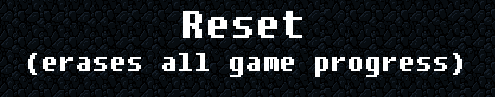
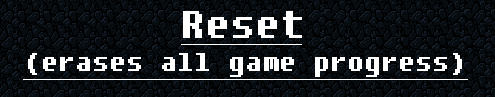
0.1.5.x (not tested)

Changed region(s): [[0.0303, 0.8041, 0.9394, 0.8351], [0.3636, 0.433, 0.6061, 0.4639]]

diff --git a/externalClasses/externalCore.py b/externalClasses/externalCore.py
@@ -18,6 +18,12 @@ class Core():
 
 		self.mainMenuHandlerObject = Menu(self.graphicHandlerObject)
 
+		self.optionsMenuHandlerObject = Menu(self.graphicHandlerObject)
+		self.optionsMenuHandlerObject.buttonPressed = [0,0]
+		self.optionsMenuHandlerObject.buttonCoords = [[154,489,495,97],[61,662,676,80]]
+		self.optionsMenuHandlerObject.buttonImages = ["images/opbut_1.png","images/opbut_2.png"]
+		self.optionsMenuHandlerObject.backgroundAdress = "images/options.png"
+
 			
 	def keyLock(self):
 		for x in self.keys:
@@ -29,6 +35,7 @@ class Core():
 					self.keysRegister.append(x)
 				
 	def startLevel(self):
+		self.graphicHandlerObject.switchCursors()
 		self.levelHandlerObject = Level(self.graphicHandlerObject)
 		self.playerHandlerObject = Player(self.graphicHandlerObject,self.levelHandlerObject,self.keys)
 		for x in self.levelHandlerObject.ennemies :
@@ -37,6 +44,7 @@ class Core():
 		self.mainMenuHandlerObject.buttonPressed[0] = False
 
 	def deleteLevel(self):
+		self.graphicHandlerObject.switchCursors()
 		del self.levelHandlerObject
 		del self.playerHandlerObject
 
@@ -66,12 +74,6 @@ class Core():
 
 				####### options menu trigger
 				if "esc" in self.keys or options:
-					if not options :
-						self.optionsMenuHandlerObject = Menu(self.graphicHandlerObject)
-						self.optionsMenuHandlerObject.buttonPressed = [0]
-						self.optionsMenuHandlerObject.buttonCoords = [[154,489,495,97]]
-						self.optionsMenuHandlerObject.buttonImages = ["images/opbut_1.png"]
-						self.optionsMenuHandlerObject.backgroundAdress = "images/options.png"
 
 					self.optionsMenuHandlerObject.update()
 
@@ -86,12 +88,18 @@ class Core():
 						self.optionsMenuHandlerObject.buttonPressed[0] = False
 						self.deleteLevel()
 						self.graphicHandlerObject.displayBackgroundUpdate(self.optionsMenuHandlerObject.backgroundAdress, False)
-
+					elif self.optionsMenuHandlerObject.buttonPressed[1]:
+						run = False
+						self.graphicHandlerObject.killWindow()
 
 					if "esc" in self.keys:
 						if options and play:
 							self.graphicHandlerObject.displayBackgroundUpdate(self.levelHandlerObject.imageAdress)
+							self.graphicHandlerObject.switchCursors()
+						elif play :
+							self.graphicHandlerObject.switchCursors()
 						options = not(options)
+
 
 				####### main menu
 				elif static:
@@ -112,6 +120,7 @@ class Core():
 						self.deleteLevel()
 						self.startLevel()
 					####### in-level actions :
+					self.graphicHandlerObject.displayBackgroundUpdate()
 					self.playerHandlerObject.keys = self.keys[:]
 					self.playerHandlerObject.update()
 					self.levelHandlerObject.update(self.fpsLimit)

diff --git a/externalClasses/externalGraphics.py b/externalClasses/externalGraphics.py
@@ -31,6 +31,9 @@ class Graphics():
 		self.buttonImage = None
 		self.buttonAdress = ""
 
+		self.normalCursor = pygame.mouse.get_cursor()
+		self.cursorState = True
+
 		self.yellowSquare = pygame.image.load("images/sq.png").convert()
 		self.yellowSquare = pygame.transform.scale(self.yellowSquare, (int(self.screen_l/60),int(self.screen_h/60)) )
 		self.lvledoverride1 = pygame.image.load("images/wall.png").convert()
@@ -79,8 +82,15 @@ class Graphics():
 	def generalDisplayUpdate(self):
 		pygame.display.flip()
 
+	def switchCursors(self):
+		if self.cursorState :
+			pygame.mouse.set_cursor((8,8),(0,0),(0,0,0,0,0,0,0,0),(0,0,0,0,0,0,0,0))
+		else :
+			pygame.mouse.set_cursor(*self.normalCursor)
+		self.cursorState = not( self.cursorState )
+		print(self.cursorState)
 
-	#GETKEYS
+	#GETKEYS/MOUSE
 
 	def getKeys(self):
 		#no parameters
@@ -110,7 +120,9 @@ class Graphics():
 		self.rightClick = pygame.mouse.get_pressed()[2]
 		return pygame.mouse.get_pos()
 
-	def drawGrid(self):
+	##### obsolete
+
+	def drawGrid(self):  #for level_editor.py
 		for x in range(1,61):
 			pygame.draw.line(self.screen,[125,125,125],(x*self.screen_l/60,0),(x*self.screen_l/60,self.screen_h))
 		for y in range(1,61):

diff --git a/externalClasses/externalLevel.py b/externalClasses/externalLevel.py
@@ -35,7 +35,6 @@ class Level():
 		self.intersectMatrix = [[]]
 
 	def update(self,fps):
-		self.graphicHandlerObject.displayBackgroundUpdate()
 		for x in self.elements :
 			for y in x :
 					#print("trying to display "+y.type+ " at : "+ str(y.position))

diff --git a/externalClasses/data/EnnemiesPattern.py b/externalClasses/data/EnnemiesPattern.py
@@ -6,7 +6,7 @@
 var = { 'lvl0' : [
 
 [[[15,-y] for y in range(-15,-6)],[[x,7]for x in range(15,32)],[[31,y] for y in range (7,16)],[[-x,15] for x in range(-31,-14)]]
-]
+],'lvl1':[]
 	
 
 
